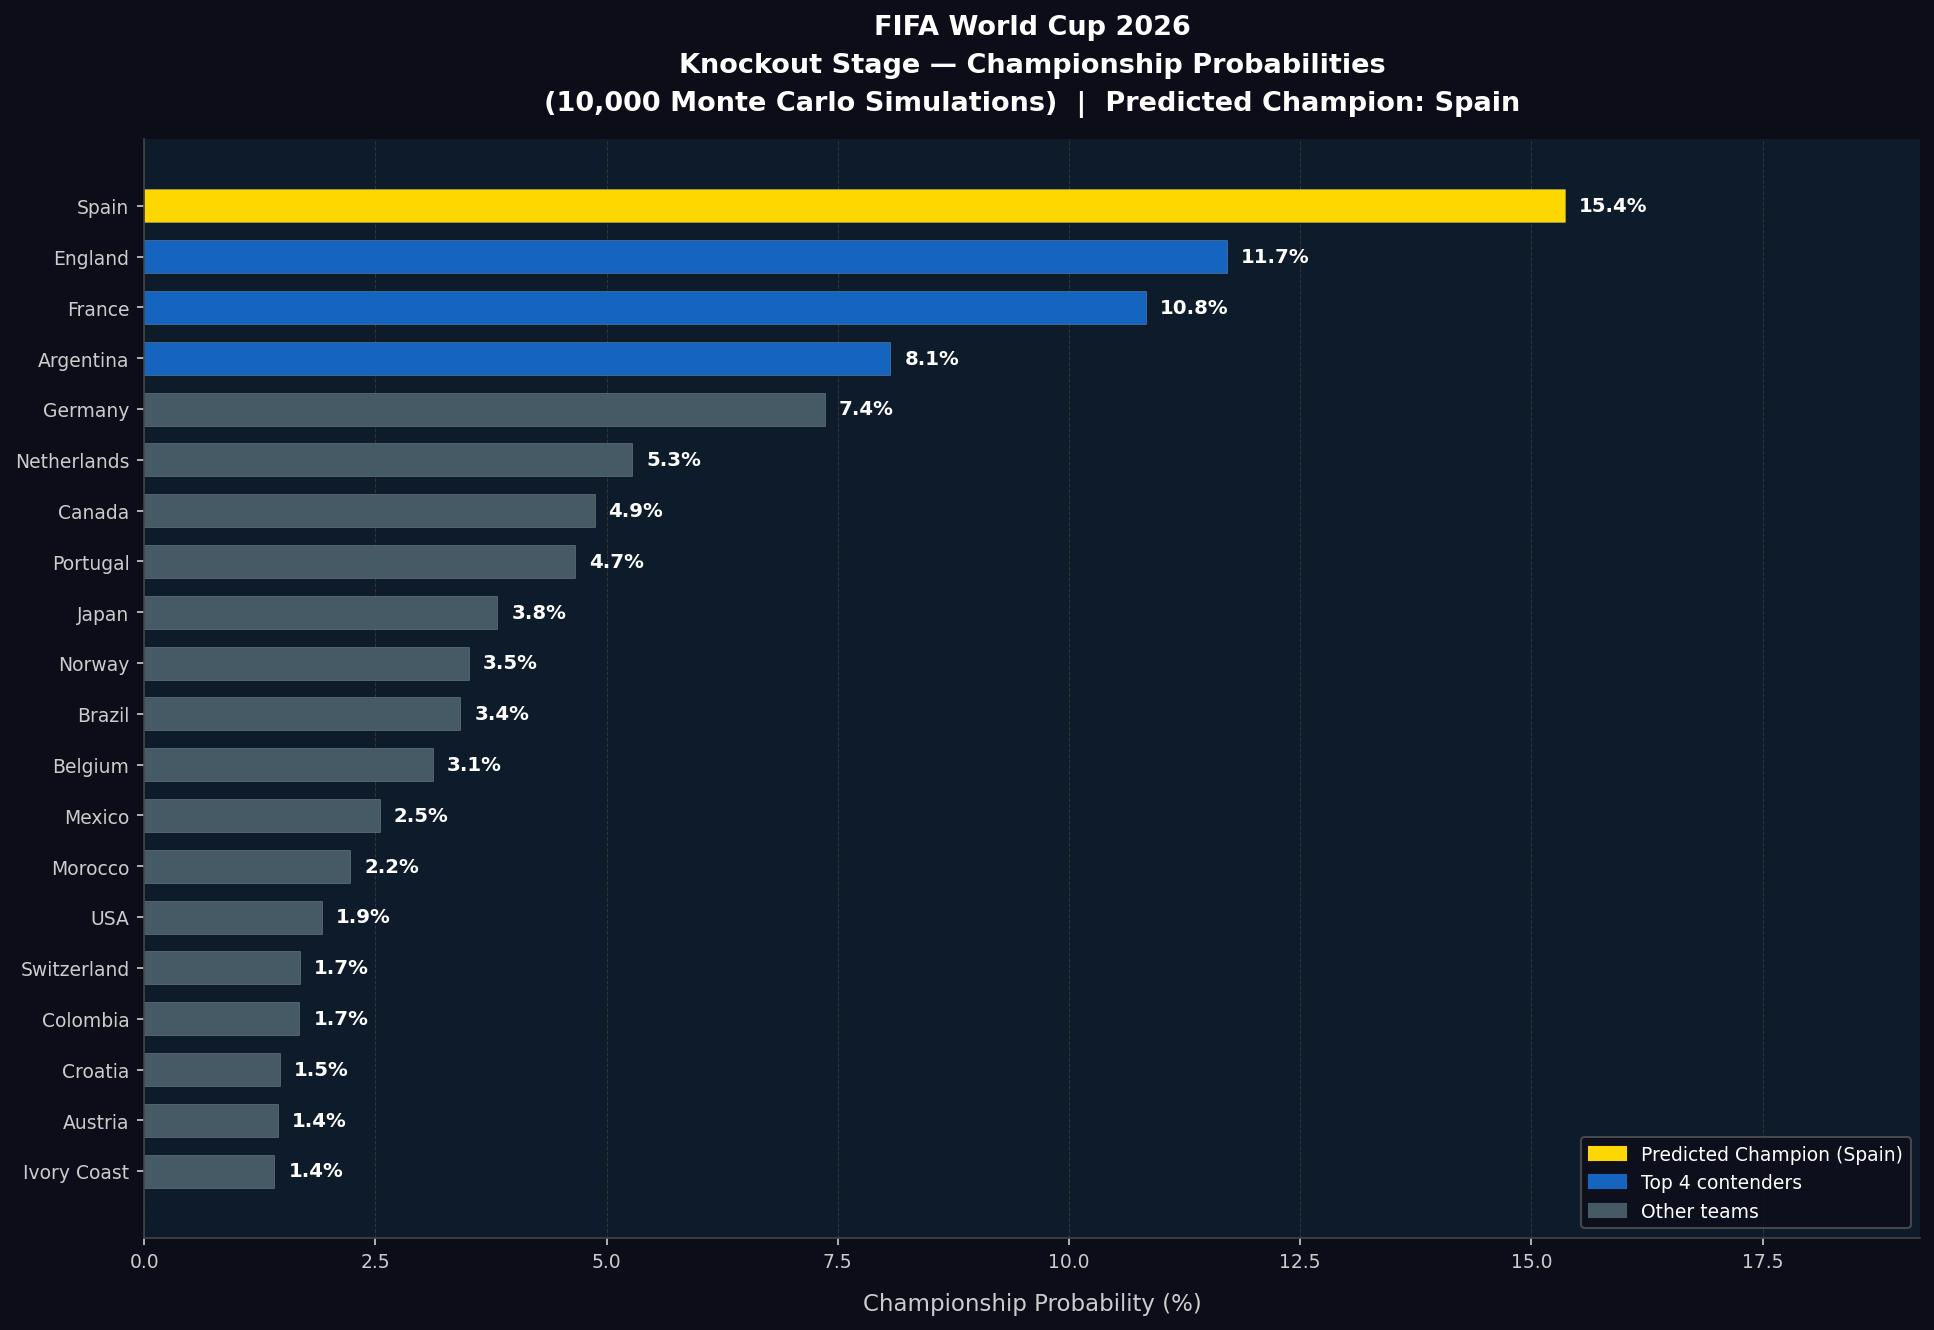
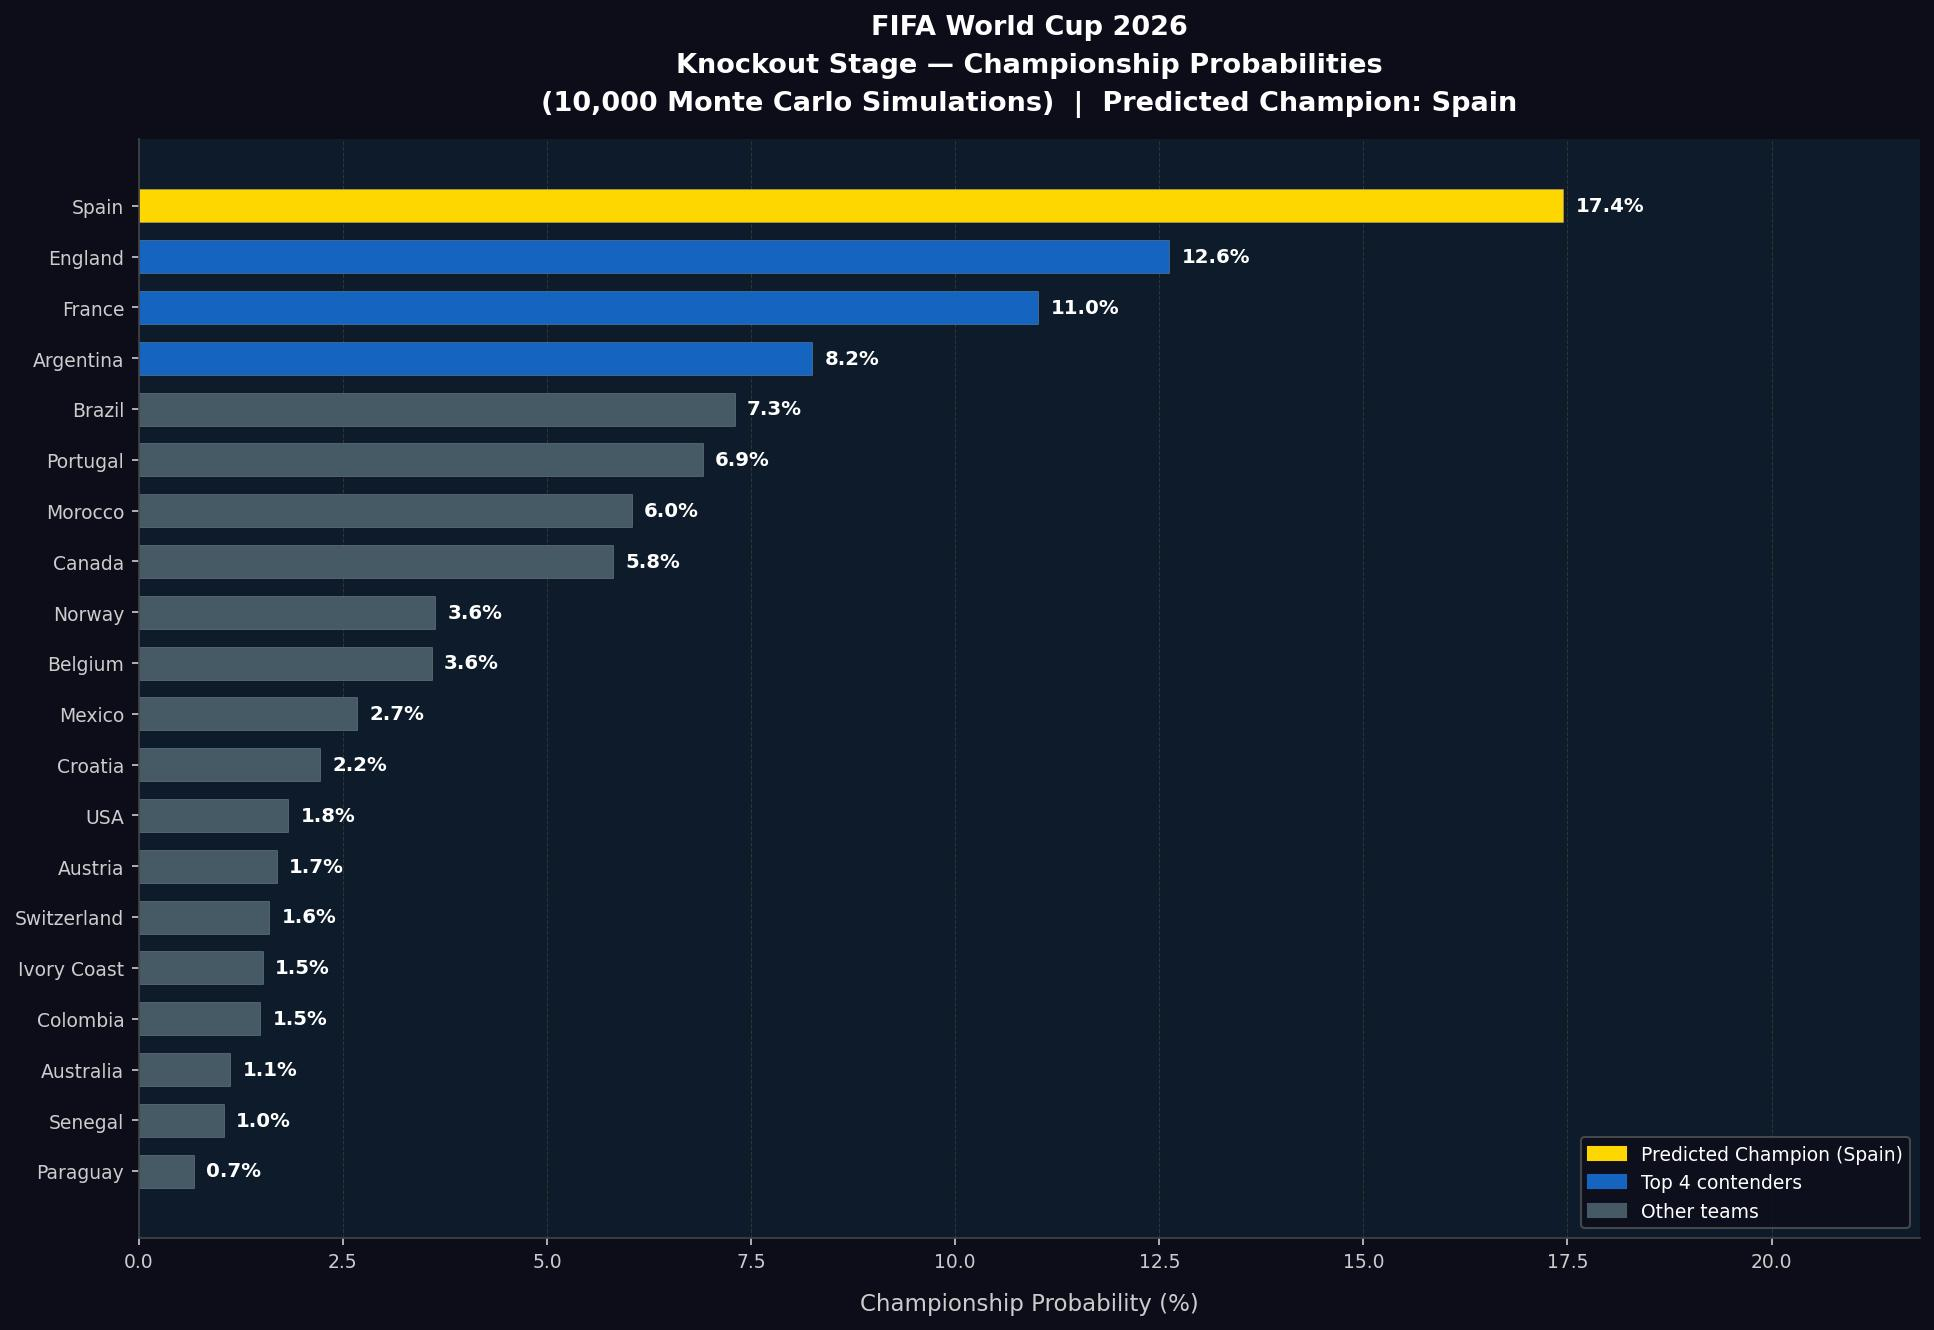
Update predictions after R32: Canada, Paraguay, Brazil, Morocco advance

diff --git a/src/main.py b/src/main.py
@@ -1,16 +1,3 @@
-
-# ============================================================
-# FIFA WORLD CUP 2026 — KNOCKOUT STAGE PREDICTOR
-# ============================================================
-# Predicts:
-#   1. Championship probability for all 32 teams (Monte Carlo)
-#   2. Most likely winner for every match until the Final
-#   3. Saves results as a JPG chart + CSV
-#
-# Model: Poisson goals model (attack/defense stats) blended
-#        with FIFA ratings for team quality.
-# ============================================================
-
 import pandas as pd
 import numpy as np
 import math
@@ -21,9 +8,7 @@ import warnings
 from collections import defaultdict
 warnings.filterwarnings('ignore')
 
-# ============================================================
 # SECTION 1: FILE PATHS
-# ============================================================
 BASE_DIR     = os.path.dirname(os.path.abspath(__file__))
 PROJECT_ROOT = os.path.dirname(BASE_DIR)
 
@@ -32,9 +17,7 @@ FIFA_CSV    = r'C:\Users\tusha\OneDrive\Desktop\Projects\fifa-predictor\data\raw
 OUTPUT_DIR  = os.path.join(PROJECT_ROOT, 'output')
 os.makedirs(OUTPUT_DIR, exist_ok=True)
 
-# ============================================================
 # SECTION 2: TEAM NAME NORMALIZATION
-# ============================================================
 NAME_MAP = {
     'United States':                'USA',
     'United States of America':     'USA',
@@ -65,9 +48,7 @@ def normalize(name):
     name = str(name).strip()
     return NAME_MAP.get(name, name)
 
-# ============================================================
 # SECTION 3: LOAD MATCH HISTORY
-# ============================================================
 print("=" * 55)
 print("  FIFA WC 2026 KNOCKOUT STAGE PREDICTOR")
 print("=" * 55)
@@ -89,9 +70,7 @@ df_modern = df_modern.dropna(subset=['home_score', 'away_score'])
 df_modern = df_modern.sort_values('date').reset_index(drop=True)
 print(f"  Loaded {len(df_modern):,} completed matches (2020-present)")
 
-# ============================================================
 # SECTION 4: TOURNAMENT IMPORTANCE WEIGHTS
-# ============================================================
 # World Cup matches count more than friendlies when computing stats.
 WEIGHTS = {
     'FIFA World Cup':                       3.0,
@@ -115,16 +94,12 @@ def get_weight(t):
 
 df_modern['weight'] = df_modern['tournament'].apply(get_weight)
 
-# ============================================================
 # SECTION 5: GLOBAL AVERAGE GOALS (the model baseline)
-# ============================================================
 last500 = df_modern.tail(500)
 GLOBAL_AVG = (last500['home_score'].mean() + last500['away_score'].mean()) / 2
 print(f"  Global avg goals per team per match: {GLOBAL_AVG:.3f}")
 
-# ============================================================
 # SECTION 6: COMPUTE TEAM STATS (attack & defense)
-# ============================================================
 def compute_features(team, df, global_avg, last_n=20):
     """
     Computes two key stats from a team's last N matches:
@@ -174,9 +149,7 @@ def compute_features(team, df, global_avg, last_n=20):
 
     return att, dfw
 
-# ============================================================
 # SECTION 7: LOAD FIFA RATINGS (team quality measure)
-# ============================================================
 print("\nStep 2: Loading FIFA ratings...")
 
 def load_fifa_ratings(filepath):
@@ -227,11 +200,7 @@ def get_elo(team):
     """Return team's Elo-like rating (default 1500 if unknown)."""
     return ELO.get(team, 1500)
 
-# ============================================================
 # SECTION 8: THE OFFICIAL WC 2026 ROUND OF 32 BRACKET
-# ============================================================
-# Source: Official FIFA WC 2026 bracket (June 28 - July 3, 2026)
-# Canada already beat South Africa 1-0 (Match 73) — result is locked in.
 
 # Format: (team1, team2, match_number)
 LEFT_BRACKET = [
@@ -258,7 +227,10 @@ RIGHT_BRACKET = [
 
 # Known match results (already played)
 KNOWN_RESULTS = {
-    73: 'Canada',   # Canada beat South Africa 1–0
+    73: 'Canada',    # Canada beat South Africa 1–0
+    75: 'Paraguay',  # Paraguay beat Germany 4–3 on penalties (1–1 AET)
+    81: 'Brazil',    # Brazil beat Japan 2–1
+    82: 'Morocco',   # Morocco beat Netherlands 3–2 on penalties (1–1 AET)
 }
 
 # All 32 teams
@@ -269,9 +241,7 @@ ALL_TEAMS = sorted(set(
     for team in (t1, t2)
 ))
 
-# ============================================================
 # SECTION 9: BUILD FEATURE TABLE FOR ALL 32 TEAMS
-# ============================================================
 print("\nStep 3: Computing team features from match history...")
 print(f"\n  {'Team':<28} {'Attack':>7} {'Defense':>9} {'FIFA Elo':>9}")
 print("  " + "-" * 58)
@@ -283,9 +253,7 @@ for team in sorted(ALL_TEAMS):
     FEATURES[team] = (att, dfw)
     print(f"  {team:<28} {att:>7.3f} {dfw:>9.3f} {elo:>9.0f}")
 
-# ============================================================
 # SECTION 10: POISSON MATCH PREDICTION
-# ============================================================
 def poisson_prob(k, lam):
     """
     Probability of scoring exactly k goals when average = lam.
@@ -343,10 +311,7 @@ def predict_match(team1, team2):
     b2  = rem * (p2_wins / dt) if dt > 0 else rem
 
     return b1, bd, b2, lam1, lam2
-
-# ============================================================
 # SECTION 11: SIMULATE ONE KNOCKOUT MATCH
-# ============================================================
 def simulate_match(team1, team2):
     """
     Randomly picks a winner for one knockout match.
@@ -356,9 +321,7 @@ def simulate_match(team1, team2):
     p1_ko = p1 + pd_ / 2    # team1's chance of winning (includes half the draw prob)
     return team1 if random.random() < p1_ko else team2
 
-# ============================================================
 # SECTION 12: SIMULATE ONE FULL TOURNAMENT
-# ============================================================
 def simulate_tournament():
     """
     Plays through the entire WC 2026 knockout bracket once.
@@ -377,7 +340,12 @@ def simulate_tournament():
         else:
             left_r32_winners.append(simulate_match(t1, t2))
 
-    right_r32_winners = [simulate_match(t1, t2) for t1, t2, _ in RIGHT_BRACKET]
+    right_r32_winners = []
+    for t1, t2, mid in RIGHT_BRACKET:
+        if mid in KNOWN_RESULTS:
+            right_r32_winners.append(KNOWN_RESULTS[mid])
+        else:
+            right_r32_winners.append(simulate_match(t1, t2))
 
     # --- Round of 16 (pair up winners: 0v1, 2v3, etc.) ---
     def pair_winners(winners):
@@ -398,9 +366,7 @@ def simulate_tournament():
     champion = simulate_match(left_sf, right_sf)
     return champion
 
-# ============================================================
 # SECTION 13: RUN MONTE CARLO (10,000 tournaments)
-# ============================================================
 N_SIMS = 10000
 print(f"\nStep 4: Running {N_SIMS:,} Monte Carlo simulations...")
 
@@ -420,9 +386,7 @@ results = sorted(
     key=lambda x: x['prob'], reverse=True
 )
 
-# ============================================================
 # SECTION 14: DISPLAY CHAMPIONSHIP PROBABILITIES
-# ============================================================
 print("\n")
 print("=" * 58)
 print("  FIFA WC 2026 — CHAMPIONSHIP PROBABILITIES")
@@ -435,9 +399,7 @@ for rank, r in enumerate(results, 1):
     print(f"  {rank:<5} {r['team']:<26} {r['prob']:>6.2f}%  {bar}")
 print("  " + "-" * 55)
 
-# ============================================================
 # SECTION 15: PREDICT MOST LIKELY WINNER FOR EVERY MATCH
-# ============================================================
 print("\n")
 print("=" * 70)
 print("  PREDICTED MATCH-BY-MATCH BRACKET PATH")
@@ -478,7 +440,8 @@ for t1, t2, mid in LEFT_BRACKET:
 
 for t1, t2, mid in RIGHT_BRACKET:
     w, p = likely_winner(t1, t2, mid)
-    print_match(f"M{mid}", t1, t2, w, p)
+    note = "PLAYED" if mid in KNOWN_RESULTS else ""
+    print_match(f"M{mid}", t1, t2, w, p, note)
     right_likely.append(w)
 
 # --- Round of 16 ---
@@ -525,9 +488,7 @@ print(f"\n  *** PREDICTED CHAMPION: {fin_w.upper()} ***")
 print(f"  (Predicted win probability in the Final: {fin_p:.1%})")
 print()
 
-# ============================================================
 # SECTION 16: GENERATE RESULTS CHART (JPG)
-# ============================================================
 print("Step 5: Generating results chart...")
 
 try:
@@ -616,7 +577,6 @@ except ImportError:
     print("  matplotlib not installed. Install with:  pip install matplotlib")
     print("  Skipping chart generation.")
 
-# ============================================================
 # SECTION 17: SAVE CSV
 # ============================================================
 csv_path = os.path.join(OUTPUT_DIR, 'wc2026_predictions.csv')